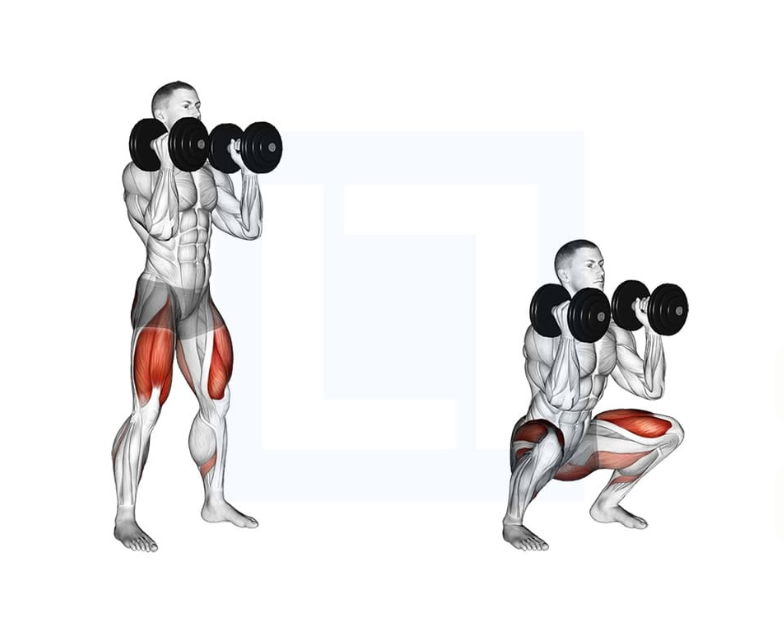
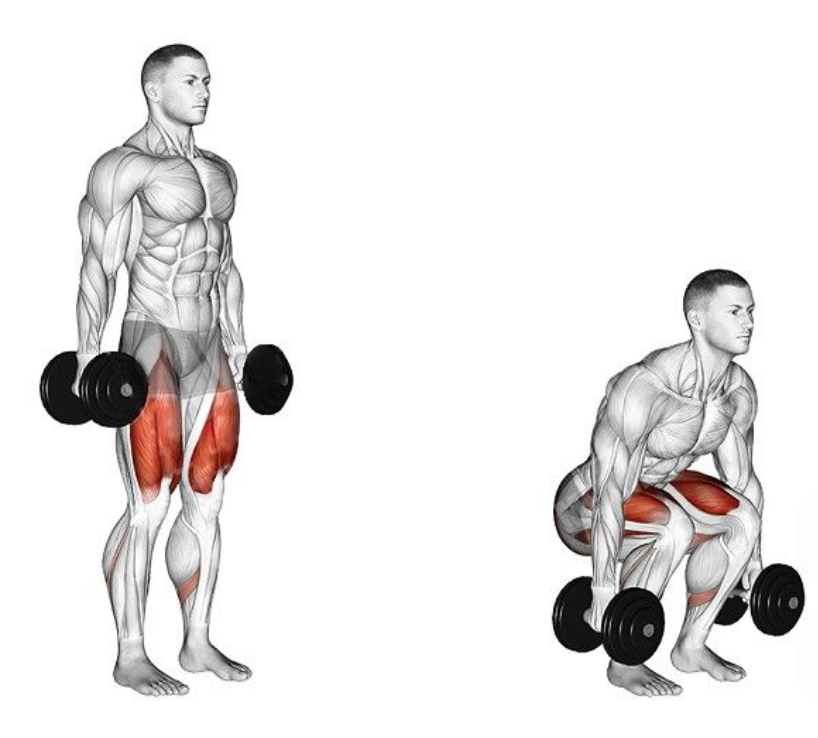
Remove unused back-squat image, fix stale service worker cache paths

Changed region(s): [[0.0306, 0.0607, 0.3673, 0.9409], [0.6429, 0.3642, 1.0, 0.9409]]

diff --git a/sw.js b/sw.js
@@ -1,4 +1,4 @@
-const CACHE_NAME = 'workout-cache-v6';
+const CACHE_NAME = 'workout-cache-v7';
 
 const PRECACHE_URLS = [
   './',
@@ -11,8 +11,8 @@ const PRECACHE_URLS = [
   'icons/icon-192.png',
   'icons/icon-512.png',
   'icons/icon-512-maskable.png',
-  'icons/exercises/barbell-back-squat.png',
-  'icons/exercises/dumbbell-standing-calf-raises.png',
+  'icons/exercises/dumbbell-squat.png',
+  'icons/exercises/standing-calf-raises.png',
   'icons/exercises/dumbbell-bulgarian-split-squat.png',
   'icons/exercises/abs-leg-raises.png',
   'icons/exercises/dumbbell-row.png',
